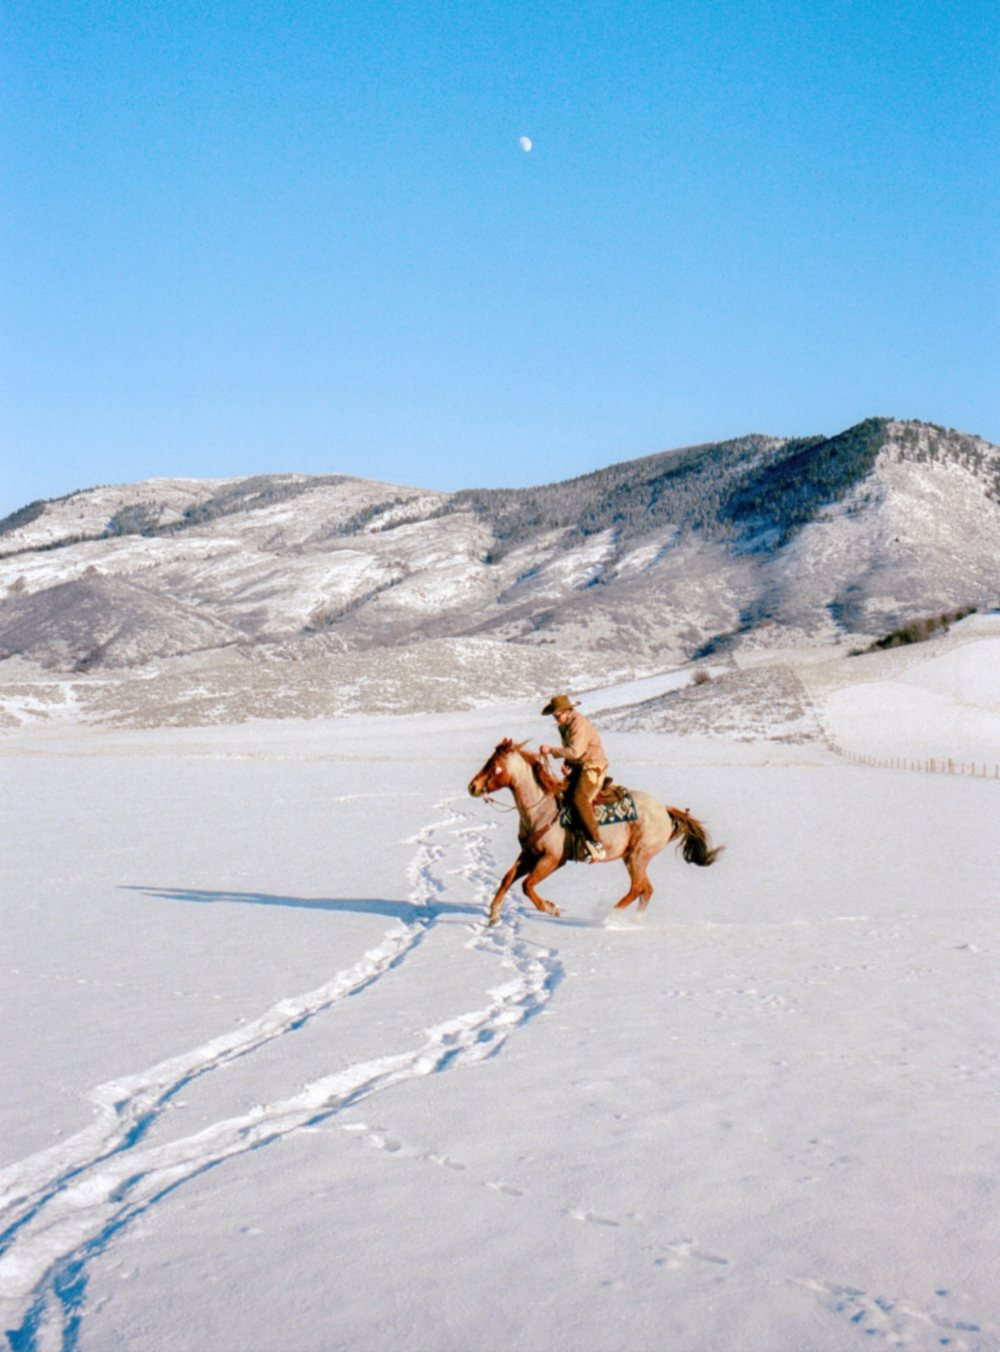
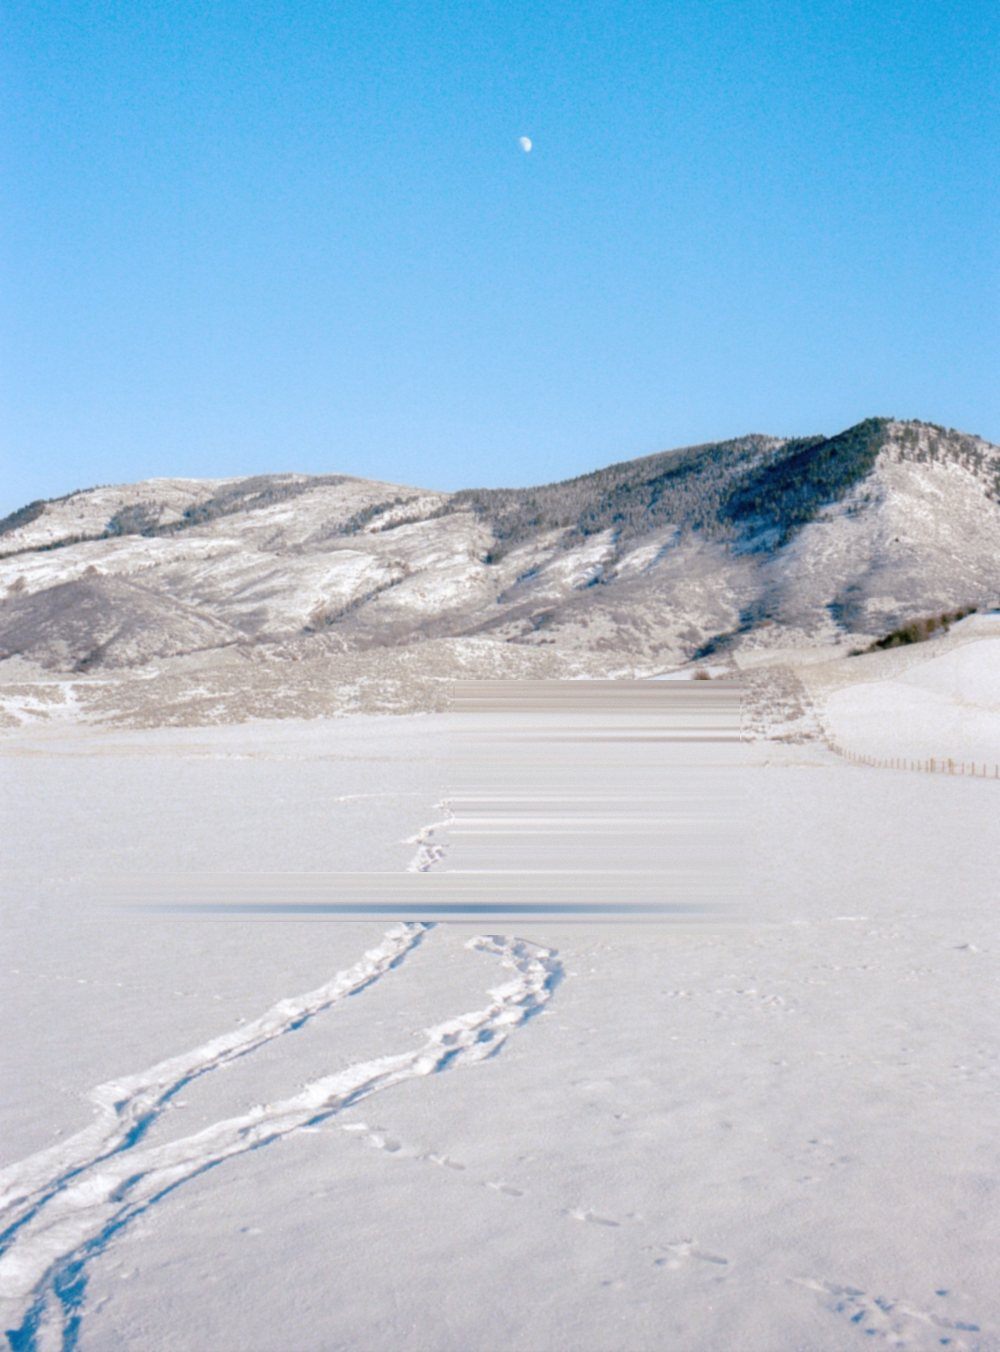
Make the horse gallop in Space Cowboy
The rider is lifted out of the photograph into his own sprite over a
cleaned snowfield. He pitches and bounces in stride, throws up snow,
stamps hoofprints that slowly fill in, casts a moving shadow, rides
across and back, and wheels around to chase the cursor on the snow.

Claude-Session: https://claude.ai/code/session_019Cnf292DNfiGxpMoEHA5xy

Changed region(s): [[0.155, 0.497, 0.744, 0.7145]]

diff --git a/js/main.js b/js/main.js
@@ -99,7 +99,7 @@
   }
 
   // ====================================================================================
-  // Project pages: the photograph redrawn in characters, a black hole where the moon was.
+  // Project pages: Space Cowboy. The photograph redrawn in characters, under a black hole.
   // ====================================================================================
 
   let ascii = null;
@@ -111,14 +111,117 @@
 
   const SCENE_SRC = 'assets/scene.jpg';
   const SKY_SRC = 'assets/sky.png';
-  const CLEAN_SRC = 'assets/scene-clean.jpg';
-  const scene = new Image(), skyMask = new Image(), clean = new Image();
-  clean.onload = function () { if (ascii) ascii.setClean(clean); };
-  clean.src = CLEAN_SRC;
+  const RIDER_SRC = 'assets/rider.png';
+  const scene = new Image(), skyMask = new Image(), riderImg = new Image();
   scene.onload = function () { if (ascii) ascii.setPhoto(scene); };
   skyMask.onload = function () { if (ascii) ascii.setSky(skyMask); };
+  riderImg.onload = function () { if (ascii) ascii.setRider(riderImg); };
   scene.src = SCENE_SRC;
   skyMask.src = SKY_SRC;
+  riderImg.src = RIDER_SRC;
+
+  // ---- The rider at a gallop ---------------------------------------------------------
+  // Everything here is in photo space: u across the photograph (0..1, beyond it mirrored),
+  // v down it. Where he stands in the photograph, and where his hooves are on the sprite:
+  const SPRITE = { u: 0.455, v: 0.503, w: 0.285, h: 0.1886, pivot: [0.57, 0.92], front: [0.12, 0.96], hind: [0.57, 0.92] };
+  const GROUND = SPRITE.v + SPRITE.h;
+  const START = SPRITE.u + SPRITE.w / 2;
+  const CRUISE = 0.0042;               // photo widths per frame at a steady gallop
+
+  // Tracks persist and slowly fill in; kicked-up snow is redrawn every frame.
+  const FX_W = 750, FX_H = 338;
+  const fx = document.createElement('canvas'), tracks = document.createElement('canvas');
+  fx.width = tracks.width = FX_W; fx.height = tracks.height = FX_H;
+  const fxc = fx.getContext('2d'), trc = tracks.getContext('2d');
+  const toFx = function (u, v) { return [(u + 1) / 3 * FX_W, v * FX_H]; };
+
+  const rider = { u: START, vel: 0, dir: -1, phase: 0, wait: 0, stride: 0, spray: [] };
+
+  function riderReset() {
+    rider.u = START; rider.vel = 0; rider.dir = -1; rider.phase = 0; rider.wait = 0;
+    rider.stride = 0; rider.spray = [];
+    trc.clearRect(0, 0, FX_W, FX_H);
+  }
+
+  function hoof(rect, at, flip) {
+    return [rect[0] + (flip ? 1 - at[0] : at[0]) * rect[2], rect[1] + at[1] * rect[3]];
+  }
+
+  function riderStep(moving) {
+    const L = ascii.layout(), W = window.innerWidth;
+    const uL = -L.x / L.w, uR = (W - L.x) / L.w, half = SPRITE.w / 2;
+    if (moving) {
+      const ridgeY = L.y + L.h * 0.4;
+      const chasing = pointer.on && performance.now() - pointer.moved < 2500 && pointer.y > ridgeY;
+      let want;
+      if (chasing) {
+        const target = (pointer.x - L.x) / L.w;
+        want = Math.max(-CRUISE * 1.6, Math.min(CRUISE * 1.6, (target - rider.u) * 0.03));
+        if (Math.abs(target - rider.u) < 0.02) want = 0;
+      } else {
+        want = rider.dir * CRUISE;
+        // Off one side of the screen: a pause, then he comes back in from the other.
+        if ((rider.dir < 0 && rider.u < uL - half) || (rider.dir > 0 && rider.u > uR + half)) {
+          if (++rider.wait > 70) { rider.u = rider.dir < 0 ? uR + half : uL - half; rider.wait = 0; }
+          want = 0;
+        }
+      }
+      rider.vel += (want - rider.vel) * 0.05;
+      rider.u += rider.vel;
+      if (Math.abs(rider.vel) > CRUISE * 0.1) rider.dir = rider.vel < 0 ? -1 : 1;
+      rider.phase += Math.abs(rider.vel) * 52;
+    }
+    const pace = Math.min(1, Math.abs(rider.vel) / CRUISE);
+    const flip = rider.dir > 0 ? 1 : 0;
+    const bob = Math.abs(Math.sin(rider.phase)) * 0.012 * pace;
+    const rect = [rider.u - half, GROUND - SPRITE.h - bob, SPRITE.w, SPRITE.h];
+    const r = ascii.rider;
+    r.rect = rect;
+    r.pivot = [flip ? 1 - SPRITE.pivot[0] : SPRITE.pivot[0], SPRITE.pivot[1]];
+    r.rot = Math.sin(rider.phase) * 0.075 * pace * (flip ? -1 : 1);
+    r.flip = flip;
+    r.shadow = [rider.u - 0.1, GROUND + 0.004, SPRITE.w * 0.55, 0.011 + 0.003 * pace];
+
+    if (!moving) return;
+    // Hoofprints: each time a stride lands, both pairs of hooves press into the snow.
+    trc.globalCompositeOperation = 'destination-out';
+    trc.fillStyle = 'rgba(0,0,0,0.0035)';
+    trc.fillRect(0, 0, FX_W, FX_H);
+    trc.globalCompositeOperation = 'source-over';
+    const fh = hoof(rect, SPRITE.front, flip), hh = hoof(rect, SPRITE.hind, flip);
+    const stride = Math.floor(rider.phase / Math.PI);
+    if (pace > 0.2 && stride !== rider.stride) {
+      trc.fillStyle = 'rgba(255,0,0,0.95)';
+      [[fh[0], GROUND - 0.005], [hh[0], GROUND + 0.004]].forEach(function (h) {
+        const at = toFx(h[0] + (Math.random() - 0.5) * 0.004, h[1]);
+        trc.beginPath();
+        trc.ellipse(at[0], at[1], 1.6, 0.9, 0, 0, Math.PI * 2);
+        trc.fill();
+      });
+    }
+    rider.stride = stride;
+
+    // Snow kicked up behind him on every stride.
+    if (pace > 0.3) {
+      const n = 2 + (Math.random() * 2 | 0);
+      for (let i = 0; i < n; i++) {
+        const at = toFx(hh[0], GROUND);
+        rider.spray.push({ x: at[0], y: at[1], vx: -rider.dir * (0.4 + Math.random() * 1.6) * pace, vy: -(0.6 + Math.random() * 1.6) * pace, life: 30 + Math.random() * 24 });
+      }
+    }
+    fxc.clearRect(0, 0, FX_W, FX_H);
+    fxc.globalCompositeOperation = 'lighter';
+    fxc.drawImage(tracks, 0, 0);
+    for (let i = rider.spray.length - 1; i >= 0; i--) {
+      const s = rider.spray[i];
+      s.x += s.vx; s.y += s.vy; s.vy += 0.07; s.life--;
+      if (s.life <= 0 || s.y > toFx(0, GROUND + 0.01)[1]) { rider.spray.splice(i, 1); continue; }
+      fxc.fillStyle = 'rgba(0,255,0,' + Math.min(1, s.life / 25).toFixed(2) + ')';
+      fxc.fillRect(s.x - 0.8, s.y - 0.8, 1.6, 1.6);
+    }
+    fxc.globalCompositeOperation = 'source-over';
+    ascii.setFx(fx);
+  }
 
   // ---- Moving between the front page and a project ----------------------------------
 
@@ -202,6 +305,7 @@
     body.classList.add('is-project');
     if (!ascii || already) { fill(i, already ? 0 : 0); requestAnimationFrame(placeCalm); return; }
     snapshotHome();
+    riderReset();
     ascii.t = 0;
     body.classList.add('in-world');
     fill(i, 700);
@@ -300,6 +404,7 @@
       org.render();
     }
     if (inWorld && ascii && !document.hidden) {
+      riderStep(!reduceMotion && !openSheet && view.t > 0.3);
       lens += ((openSheet ? 0 : pointer.on) - lens) * 0.15;
       const W = window.innerWidth, H = window.innerHeight;
       pointer.lx += ((pointer.on ? (0.5 - pointer.x / W) * 0.07 : 0) - pointer.lx) * 0.04;

diff --git a/js/ascii.js b/js/ascii.js
@@ -88,8 +88,9 @@ void main(){
 }`;
 
   const ASCII = `precision highp float;
-uniform sampler2D uBH,uPhoto,uClean,uSky,uHome,uAtlas;
+uniform sampler2D uBH,uPhoto,uSky,uHome,uAtlas,uRider,uFx;
 uniform vec3 uStar;
+uniform vec4 uRiderRect,uShadow;uniform vec2 uRiderPivot;uniform float uRiderRot,uRiderFlip,uRiderAR;
 uniform vec2 uRes,uCell,uMoon;
 uniform float uGlyphs,uRampN,uD0,uNoise0,uTime,uT,uExposure,uLensR;
 uniform vec3 uMouse,uAccent;
@@ -99,9 +100,25 @@ vec3 aces(vec3 x){return clamp((x*(2.51*x+0.03))/(x*(2.43*x+0.59)+0.14),0.,1.);}
 float lum(vec3 c){return dot(c,vec3(0.299,0.587,0.114));}
 float ramp(float l){return floor(clamp(l,0.,1.)*(uRampN-0.001));}
 float mirror(float u){float f=mod(u,2.);return f>1.?2.-f:f;}
-// Inside the frame, the photograph; beyond it, a mirrored copy without the rider.
-vec3 photo(vec2 u){vec2 m=vec2(mirror(u.x),clamp(u.y,0.,1.));
-  return (u.x<0.||u.x>1.)?texture2D(uClean,m).rgb:texture2D(uPhoto,m).rgb;}
+// The snowfield (mirrored beyond the photograph's edges).
+vec3 photo(vec2 u){return texture2D(uPhoto,vec2(mirror(u.x),clamp(u.y,0.,1.))).rgb;}
+// Tracks (r) and kicked-up snow (g), drawn by the page in photo space, u from -1 to 2.
+vec4 fxAt(vec2 u){return texture2D(uFx,vec2((u.x+1.)/3.,clamp(u.y,0.,1.)));}
+// The land with the rider on it: fresh tracks, his shadow, and him, pitching as he gallops.
+vec3 land(vec2 pu){
+  vec3 c=photo(pu);
+  vec4 f=fxAt(pu);
+  c=mix(c,vec3(0.55,0.62,0.75),clamp(f.r*f.a*1.2,0.,1.)*0.8);
+  float sh=1.-smoothstep(0.55,1.,length((pu-uShadow.xy)/uShadow.zw));
+  c*=mix(vec3(1.),vec3(0.76,0.82,0.94),sh*0.85);
+  vec2 q=(pu-uRiderRect.xy)/uRiderRect.zw,d=q-uRiderPivot;
+  d.x*=uRiderAR;float cs=cos(uRiderRot),sn=sin(uRiderRot);
+  d=vec2(cs*d.x+sn*d.y,-sn*d.x+cs*d.y);d.x/=uRiderAR;q=uRiderPivot+d;
+  if(uRiderFlip>0.5)q.x=1.-q.x;
+  if(all(greaterThanEqual(q,vec2(0.)))&&all(lessThanEqual(q,vec2(1.)))){
+    vec4 r=texture2D(uRider,q);c=mix(c,r.rgb,smoothstep(0.3,0.6,r.a));}
+  return c;
+}
 void main(){
   vec2 p=vec2(gl_FragCoord.x,uRes.y-gl_FragCoord.y);
   float seed=h12(floor(p/uCell)+0.37);
@@ -138,10 +155,10 @@ void main(){
         idx=st>0.9985?uStar.z:(st>0.997?uStar.y:uStar.x);}
     }else{
       // The land, from the photograph, as ink on paper: darker places get denser characters.
-      vec3 c=photo(pu);
+      vec3 c=land(pu);
       vec2 du=cell/uPhotoRect.zw;
-      float gx=lum(photo(pu+vec2(du.x,0.)))-lum(photo(pu-vec2(du.x,0.)));
-      float gy=lum(photo(pu+vec2(0.,du.y)))-lum(photo(pu-vec2(0.,du.y)));
+      float gx=lum(land(pu+vec2(du.x,0.)))-lum(land(pu-vec2(du.x,0.)));
+      float gy=lum(land(pu+vec2(0.,du.y)))-lum(land(pu-vec2(0.,du.y)));
       float l=lum(c);
       float ink=clamp((0.82-l)/0.6,0.,1.);
       float sat=max(c.r,max(c.g,c.b))-min(c.r,min(c.g,c.b));
@@ -152,6 +169,9 @@ void main(){
       }else idx=ramp(pow(ink,0.8));
       // Paper where the snow is; the photograph's own colour where there is something there.
       bg=mix(vec3(0.95,0.96,0.978),c,clamp(0.25+ink*0.6+sat*1.2,0.,0.9));
+      // Snow thrown up by the hooves.
+      vec4 f=fxAt(pu);float spray=f.g*f.a;
+      if(spray>0.18){idx=spray>0.6?uStar.z:(spray>0.35?uStar.y:uStar.x);fg=vec3(0.32,0.42,0.62);}
     }
   }
   fg*=mix(1.,0.5,calm);bg*=mix(1.,0.12,calm);
@@ -173,7 +193,9 @@ void main(){
     this.bhTex = this.texture(gl.LINEAR);
     this.fbo = gl.createFramebuffer();
     this.photoTex = this.texture(gl.LINEAR);
-    this.cleanTex = this.texture(gl.LINEAR);
+    this.riderTex = this.texture(gl.LINEAR);
+    this.fxTex = this.texture(gl.LINEAR);
+    this.rider = { rect: [-1, -1, 0.01, 0.01], pivot: [0.57, 0.92], rot: 0, flip: 0, ar: 1, shadow: [-9, -9, 0.01, 0.01] };
     this.skyTex = this.texture(gl.LINEAR);
     this.homeTex = this.texture(gl.LINEAR);
     this.atlasTex = this.texture(gl.LINEAR);
@@ -228,7 +250,8 @@ void main(){
     gl.texImage2D(gl.TEXTURE_2D, 0, gl.RGBA, gl.RGBA, gl.UNSIGNED_BYTE, src);
   };
   A.setPhoto = function (img) { this.photoAR = img.naturalWidth / img.naturalHeight; this.upload(this.photoTex, img); };
-  A.setClean = function (img) { this.upload(this.cleanTex, img); };
+  A.setRider = function (img) { this.rider.ar = img.naturalWidth / img.naturalHeight; this.upload(this.riderTex, img); };
+  A.setFx = function (canvas) { this.upload(this.fxTex, canvas); };
   A.setSky = function (img) { this.upload(this.skyTex, img); };
   // A still of the front page, the starting point of a transition.
   A.setHome = function (canvas) { this.upload(this.homeTex, canvas); };
@@ -317,7 +340,7 @@ void main(){
     gl.viewport(0, 0, this.canvas.width, this.canvas.height);
     gl.enableVertexAttribArray(p.a);
     gl.vertexAttribPointer(p.a, 2, gl.FLOAT, false, 0, 0);
-    const units = [['uBH', this.bhTex], ['uPhoto', this.photoTex], ['uClean', this.cleanTex], ['uSky', this.skyTex], ['uHome', this.homeTex], ['uAtlas', this.atlasTex]];
+    const units = [['uBH', this.bhTex], ['uPhoto', this.photoTex], ['uSky', this.skyTex], ['uHome', this.homeTex], ['uAtlas', this.atlasTex], ['uRider', this.riderTex], ['uFx', this.fxTex]];
     units.forEach(function (u, i) {
       gl.activeTexture(gl.TEXTURE0 + i);
       gl.bindTexture(gl.TEXTURE_2D, u[1]);
@@ -348,6 +371,13 @@ void main(){
     gl.uniform1f(p.u.uLensR, (this.w < 700 ? 90 : 140) * d);
     gl.uniform4fv(p.u.uCalm, this.calm);
     gl.uniform3fv(p.u.uAccent, this.opts.accent);
+    const r = this.rider;
+    gl.uniform4fv(p.u.uRiderRect, r.rect);
+    gl.uniform2fv(p.u.uRiderPivot, r.pivot);
+    gl.uniform1f(p.u.uRiderRot, r.rot);
+    gl.uniform1f(p.u.uRiderFlip, r.flip);
+    gl.uniform1f(p.u.uRiderAR, r.ar);
+    gl.uniform4fv(p.u.uShadow, r.shadow);
     gl.drawArrays(gl.TRIANGLES, 0, 6);
   };
 

diff --git a/README.md b/README.md
@@ -7,6 +7,7 @@ Portfolio v2 for Xavier Ruiz.
 **Project pages.** Clicking a found project turns the whole page into that project's own world. The front page breaks apart cell by cell into characters and becomes:
 
 - the photograph of a rider crossing snow, redrawn in characters: ink on paper below the ridge, with edges (ridgelines, the horse, the tracks) drawn as `- | / \`;
+- the rider at a gallop: he pitches and bounces in stride, kicks up snow, leaves hoofprints that fill back in, rides across and comes back around, and wheels to chase the cursor across the snow;
 - a sky that is a ray-traced black hole, seen from close by: its shadow and lensed disk fill everything above the ridge;
 - a lens around the cursor (finer characters, magnification) and the land drifting against the sky as the cursor moves.
 
@@ -24,4 +25,4 @@ Everything personal is in `ME` at the top of `js/main.js`.
 - `js/ascii.js`: black hole ray tracer and the character renderer (project pages)
 - `js/main.js`: content, the two views and the transition between them
 - `js/palettes.js`, `js/colormaps.js`: colour
-- `assets/scene.jpg`: the photograph; `assets/scene-clean.jpg`: the same without the rider, for the mirrored edges of wide screens; `assets/sky.png`: where the sky is
+- `assets/scene.jpg`: the photograph with the rider lifted out; `assets/rider.png`: the rider; `assets/sky.png`: where the sky is
